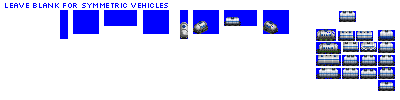
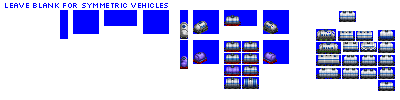
Change: WIP on Edibles Tank Car sprites

Changed region(s): [[0.45, 0.39, 0.72, 0.9], [0.54, 0.15, 0.6, 0.27]]

diff --git a/src/vehicles/edibles_tank_cars.py b/src/vehicles/edibles_tank_cars.py
@@ -13,7 +13,7 @@ def main():
 
     consist.add_unit(type=FreightCar,
                      vehicle_length=4,
-                     chassis='3_axle_solid_express_16px')
+                     chassis='2_axle_filled_16px')
 
     consist = EdiblesTankCarConsist(roster='pony',
                                     base_numeric_id=1190,
@@ -27,6 +27,15 @@ def main():
     consist = EdiblesTankCarConsist(roster='pony',
                                     base_numeric_id=2990,
                                     gen=4,
+                                    subtype='A')
+
+    consist.add_unit(type=FreightCar,
+                     vehicle_length=4,
+                     chassis='3_axle_solid_express_16px')
+
+    consist = EdiblesTankCarConsist(roster='pony',
+                                    base_numeric_id=1210,
+                                    gen=5,
                                     subtype='A')
 
     consist.add_unit(type=FreightCar,
